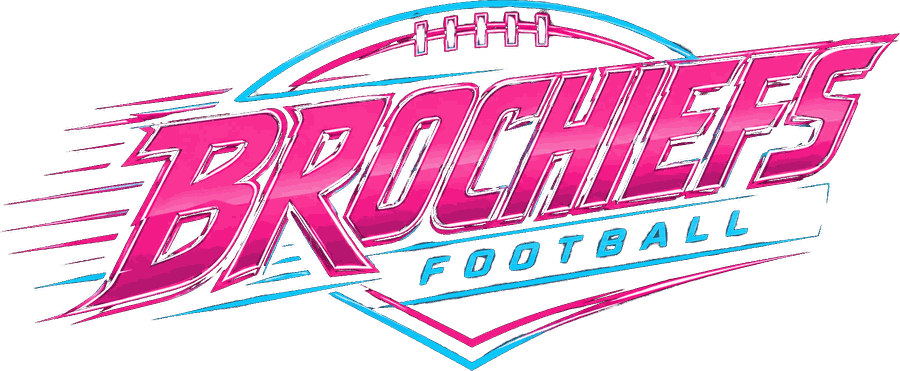
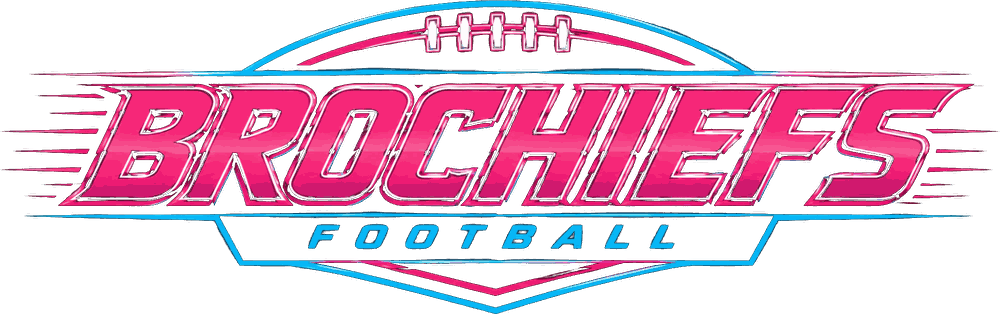
Swap in the symmetric Brochiefs Football wordmark
Previous artwork had speed lines trailing left, which made the header
look off-center. Bump cache version.

Claude-Session: https://claude.ai/code/session_01CNtMicKV35wV5Y3B3WSquQ

diff --git a/index.html b/index.html
@@ -21,7 +21,7 @@
   <link rel="preconnect" href="https://fonts.googleapis.com" />
   <link rel="preconnect" href="https://fonts.gstatic.com" crossorigin />
   <link href="https://fonts.googleapis.com/css2?family=Press+Start+2P&family=Orbitron:wght@500;700;900&display=swap" rel="stylesheet" />
-  <link rel="stylesheet" href="styles.css?v=202609041515" />
+  <link rel="stylesheet" href="styles.css?v=202609041520" />
 </head>
 <body>
 
@@ -188,6 +188,6 @@
     </button>
   </nav>
 
-  <script src="app.js?v=202609041515"></script>
+  <script src="app.js?v=202609041520"></script>
 </body>
 </html>
